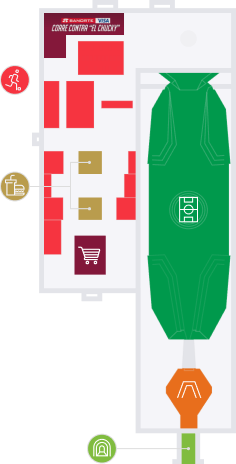
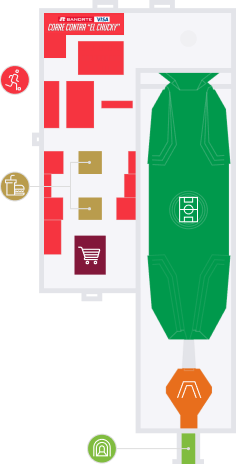
Added new image assets

Changed region(s): [[0.178, 0.0302, 0.5339, 0.1509]]

diff --git a/src/sections/profile/screens/index.js b/src/sections/profile/screens/index.js
@@ -22,9 +22,8 @@ const STORAGE_SHIRT = 'STORAGE_SHIRT';
 const TAG = 'ProfileHomeScreen';
 
 const FRAMES = [
-  IMG.smPaniniBlanca,
-  IMG.smPaniniNegra,
-  IMG.smPaniniVerde
+  IMG.smPaniniVerde,
+  IMG.smPaniniBlanca
 ];
 
 function ProfileHomeScreen({ navigation, stamp, shirt, showQuiz }) {

diff --git a/src/sections/photo/screens/stamp.js b/src/sections/photo/screens/stamp.js
@@ -22,9 +22,8 @@ const STORAGE_SHIRT = 'STORAGE_SHIRT';
 const TAG = 'PhotoStampScreen';
 
 const FRAMES = [
-  IMG.smPaniniBlanca,
-  IMG.smPaniniNegra,
-  IMG.smPaniniVerde
+  IMG.smPaniniVerde,
+  IMG.smPaniniBlanca 
 ];
 
 function PhotoStampScreen({ navigation }) {

diff --git a/src/sections/photo/screens/preview.js b/src/sections/photo/screens/preview.js
@@ -30,9 +30,8 @@ const PHOTO_WIDTH = 414;
 const PHOTO_HEIGHT = 552;
 
 const SHIRT_OPTIONS = [
-  IMG.smCamisaBlanca,
-  IMG.smCamisaNegra,
   IMG.smCamisaVerde,
+  IMG.smCamisaBlanca
 ];
 
 function PhotoPreviewScreen({ route, navigation, setStamp }) {
